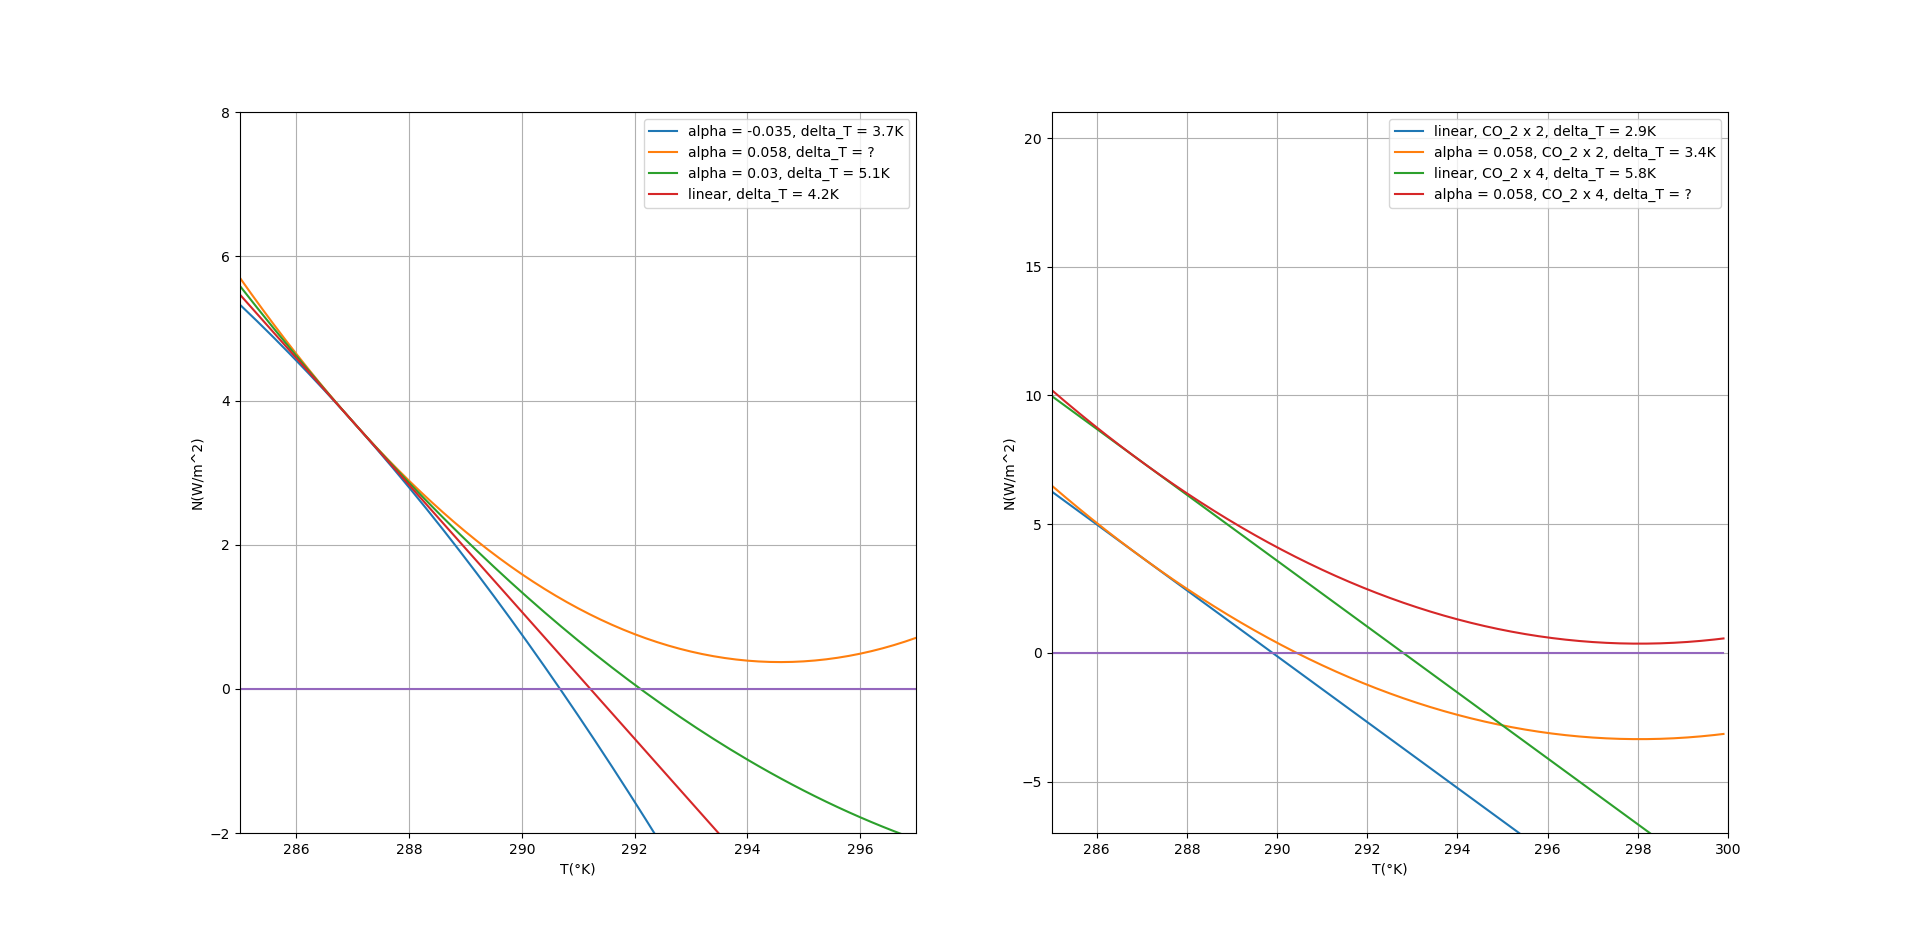
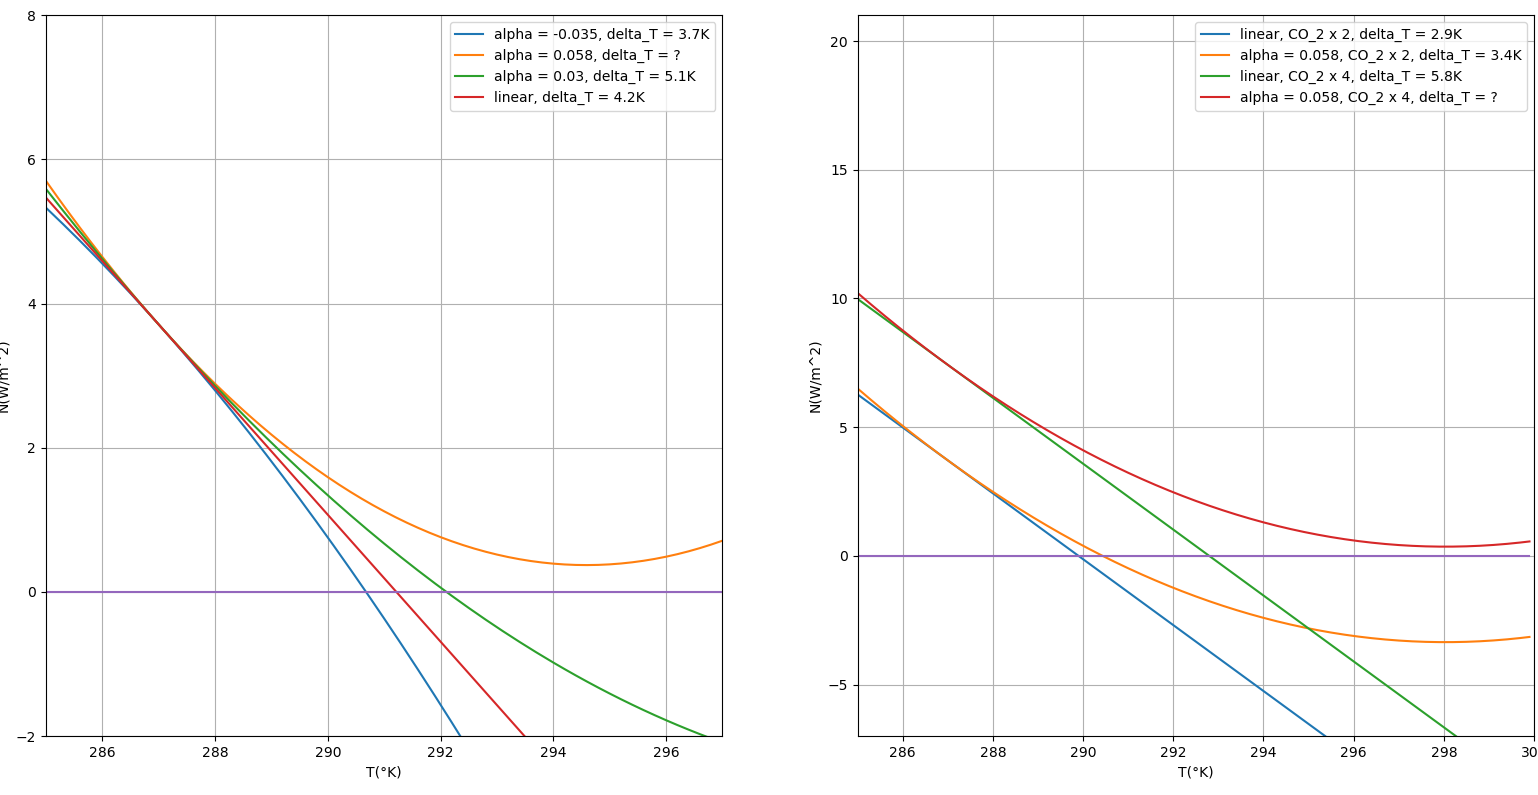
affichage des plots en colonnes

diff --git a/1.2/part_2.py b/1.2/part_2.py
@@ -5,6 +5,20 @@ import matplotlib.pyplot as plt
     A numerical scheme is implemented to solve (eq 3.). We will perform several times series, all of theme during 200y,
     for all the value of alpha lambda and F used in the previous exercises.
 """
+
+############ - Function definition - ##############
+def alpha_critique(lamb, CO_2_multiplication):
+	"""
+		Give the value of alpha where sqrt(lamb**2 - 4 * alpha * F) doesn't exist -> runaway warming.
+	"""
+	F = np.log2(CO_2_multiplication)*3.71
+	return (lamb**2)/(4*F)
+
+def delta_T_next_time_step(CO2_multiplication, lamb, alpha, delta_T):
+    # return the next time step with Euler Forward method.
+    F = np.log2(CO2_multiplication)*3.71
+    return (delta_t/C) * (F + lamb * delta_T + alpha * delta_T**2) + delta_T
+
 ############ - Simulation Parameters - ############
 C = 8.36 * 10 ** 8 
 
@@ -30,31 +44,35 @@ CO2_1d_3 = 4
 alpha_1d_4 = 0.058
 CO2_1d_4 = 4
 
-#Graph 2a and 2b. Originally alpha was varying from -0.1 to 0.1 but now we have to choose prescribed value fro alpha (? not sure)
 lamb_2ab_1 = -0.79
 lamb_2ab_2 = -1.17
 lamb_2ab_3 = -1.78
 
-alpha_2ab = 0.03
-
 CO2_2a = 2
 CO2_2b = 4
+
+epsilon = 0
+
+alpha_2a_1 = alpha_critique(lamb_2ab_1,CO2_2a) - epsilon
+alpha_2a_2 = alpha_critique(lamb_2ab_2,CO2_2a) - epsilon
+alpha_2a_3 = alpha_critique(lamb_2ab_3,CO2_2a) - epsilon
+
+alpha_2b_1 = alpha_critique(lamb_2ab_1,CO2_2b) - epsilon
+alpha_2b_2 = alpha_critique(lamb_2ab_2,CO2_2b) - epsilon
+alpha_2b_3 = alpha_critique(lamb_2ab_3,CO2_2b) - epsilon
+
+
 
 ########## - Temporal discretization  - ###########
 
 delta_t_in_year = 0.05
-integration_time_in_year = 200 
+integration_time_in_year = 800 
 delta_t = delta_t_in_year * 365 * 24 * 60 * 60 # Using SI units
 integration_time = integration_time_in_year * 365 * 24 * 60 * 60 # Using SI units
 
 temporal_discretization = np.arange(0, integration_time, delta_t)
 
-############ - Function definition - ##############
 
-def delta_T_next_time_step(CO2_multiplication, lamb, alpha, delta_T):
-    # return the next time step with Euler Forward method.
-    F = np.log2(CO2_multiplication)*3.71
-    return (delta_t/C) * (F + lamb * delta_T + alpha * delta_T**2) + delta_T
 
 ################# - Simulation - ###################
 T_1a_1 = []
@@ -104,13 +122,13 @@ for t in temporal_discretization:
         T_1d_3.append(delta_T_next_time_step(CO2_1d_3, lamb_1d, alpha_1d_3, T_1d_3[-1]))
         T_1d_4.append(delta_T_next_time_step(CO2_1d_4, lamb_1d, alpha_1d_4, T_1d_4[-1]))
 
-        T_2a_1.append(delta_T_next_time_step(CO2_2a, lamb_2ab_1, alpha_2ab, T_2a_1[-1]))
-        T_2a_2.append(delta_T_next_time_step(CO2_2a, lamb_2ab_2, alpha_2ab, T_2a_2[-1]))
-        T_2a_3.append(delta_T_next_time_step(CO2_2a, lamb_2ab_3, alpha_2ab, T_2a_3[-1]))
+        T_2a_1.append(delta_T_next_time_step(CO2_2a, lamb_2ab_1, alpha_2a_1, T_2a_1[-1]))
+        T_2a_2.append(delta_T_next_time_step(CO2_2a, lamb_2ab_2, alpha_2a_2, T_2a_2[-1]))
+        T_2a_3.append(delta_T_next_time_step(CO2_2a, lamb_2ab_3, alpha_2a_3, T_2a_3[-1]))
 
-        T_2b_1.append(delta_T_next_time_step(CO2_2b, lamb_2ab_1, alpha_2ab, T_2b_1[-1]))
-        T_2b_2.append(delta_T_next_time_step(CO2_2b, lamb_2ab_2, alpha_2ab, T_2b_2[-1]))
-        T_2b_3.append(delta_T_next_time_step(CO2_2b, lamb_2ab_3, alpha_2ab, T_2b_3[-1]))
+        T_2b_1.append(delta_T_next_time_step(CO2_2b, lamb_2ab_1, alpha_2b_1, T_2b_1[-1]))
+        T_2b_2.append(delta_T_next_time_step(CO2_2b, lamb_2ab_2, alpha_2b_2, T_2b_2[-1]))
+        T_2b_3.append(delta_T_next_time_step(CO2_2b, lamb_2ab_3, alpha_2b_3, T_2b_3[-1]))
 
 ################## - Ploting the results - ##################
 
@@ -118,7 +136,8 @@ for t in temporal_discretization:
 """
     We creat 4 subplots, first for value param from fig 1a, second from fig 1d, third 2a and last 2b.
 """
-plt.subplot(2,2,1)
+
+plt.subplot(2,1,1)
 plt.plot(temporal_discretization/31536000,T_1a_1, label = 'lambda = {}, alpha = {}, CO2_mult = {}, delta_T steady state= {}°K'.format(lamb_1a,alpha_1a_1,CO2_1a,round(T_1a_1[-1],1)))
 plt.plot(temporal_discretization/31536000,T_1a_2, label = 'lambda = {}, alpha = {}, CO2_mult = {}, delta_T steady state= {}°K'.format(lamb_1a,alpha_1a_2,CO2_1a,round(T_1a_2[-1],1)))
 plt.plot(temporal_discretization/31536000,T_1a_3, label = 'lambda = {}, alpha = {}, CO2_mult = {}, steady state unreached'.format(lamb_1a,alpha_1a_3,CO2_1a))
@@ -130,7 +149,7 @@ plt.legend()
 plt.grid()
 plt.title('Thermal inertia, parameter values from fig 1 left.')
    
-plt.subplot(2,2,2)
+plt.subplot(2,1,2)
 plt.plot(temporal_discretization/31536000,T_1d_1, label = 'lambda = {}, linear, CO2_mult = {}, delta_T steady state= {}°K'.format(lamb_1d, CO2_1d_1, round(T_1d_1[-1],1)))
 plt.plot(temporal_discretization/31536000,T_1d_2, label = 'lambda = {}, alpha = {}, CO2_mult = {}, delta_T steady state= {}°K'.format(lamb_1d, alpha_1d_2, CO2_1d_2, round(T_1d_2[-1],1)))
 plt.plot(temporal_discretization/31536000,T_1d_3, label = 'lambda = {}, linear, CO2_mult = {}, delta_T steady state= {}°K'.format(lamb_1d,CO2_1d_3,round(T_1d_3[-1],1)))
@@ -141,24 +160,25 @@ plt.ylabel('delta_T (°K)')
 plt.grid()
 plt.title('Thermal inertia, parameter values from fig 1 right.')
 
-plt.subplot(2,2,3)
-plt.plot(temporal_discretization/31536000,T_2a_1, label = 'lambda = {}, alpha = {}, CO2_mult = {}'.format(lamb_2ab_1,alpha_2ab,CO2_2a))
-plt.plot(temporal_discretization/31536000,T_2a_2, label = 'lambda = {}, alpha = {}, CO2_mult = {}'.format(lamb_2ab_2,alpha_2ab,CO2_2a))
-plt.plot(temporal_discretization/31536000,T_2a_3, label = 'lambda = {}, alpha = {}, CO2_mult = {}'.format(lamb_2ab_3,alpha_2ab,CO2_2a))
+plt.show()
+plt.subplot(2,1,1)
+plt.plot(temporal_discretization/31536000,T_2a_1, label = 'lambda = {}, alpha_c = {}'.format(lamb_2ab_1, round(alpha_2a_1,3)))
+plt.plot(temporal_discretization/31536000,T_2a_2, label = 'lambda = {}, alpha_c = {}'.format(lamb_2ab_2, round(alpha_2a_2,3)))
+plt.plot(temporal_discretization/31536000,T_2a_3, label = 'lambda = {}, alpha_c = {}'.format(lamb_2ab_3, round(alpha_2a_3,3)))
 plt.legend()
 plt.xlabel('time in year')
 plt.ylabel('delta_T (°K)')
 plt.grid()
-plt.title('thermal inertia, parameter value from fig 2a.')
+plt.title('Trensient behaviour under one doubling of CO2 with alpha = alpha_c.')
 
-plt.subplot(2,2,4)
-plt.plot(temporal_discretization/31536000,T_2b_1, label = 'lambda = {}, alpha = {}, CO2_mult = {}'.format(lamb_2ab_1,alpha_2ab,CO2_2b))
-plt.plot(temporal_discretization/31536000,T_2b_2, label = 'lambda = {}, alpha = {}, CO2_mult = {}'.format(lamb_2ab_2,alpha_2ab,CO2_2b))
-plt.plot(temporal_discretization/31536000,T_2b_3, label = 'lambda = {}, alpha = {}, CO2_mult = {}'.format(lamb_2ab_3,alpha_2ab,CO2_2b))
+plt.subplot(2,1,2)
+plt.plot(temporal_discretization/31536000,T_2b_1, label = 'lambda = {}, alpha_c = {}'.format(lamb_2ab_1, round(alpha_2b_1,3)))
+plt.plot(temporal_discretization/31536000,T_2b_2, label = 'lambda = {}, alpha_c = {}'.format(lamb_2ab_2, round(alpha_2b_2,3)))
+plt.plot(temporal_discretization/31536000,T_2b_3, label = 'lambda = {}, alpha_c = {}'.format(lamb_2ab_3, round(alpha_2b_3,3)))
 plt.legend()
 plt.xlabel('time in year')
 plt.ylabel('delta_T (°K)')
 plt.grid()
-plt.title('thermal inertia, parameter value from fig 2b.')
+plt.title('Trensient behaviour under two doubling of CO2 with alpha = alpha_c.')
 
 plt.show()

diff --git a/1.2/convergence_time.py b/1.2/convergence_time.py
@@ -1,0 +1,92 @@
+import numpy as np
+import matplotlib.pyplot as plt
+
+
+############ - Function definition - ##############
+def alpha_critique(lamb, CO_2_multiplication):
+	"""
+		Give the value of alpha where sqrt(lamb**2 - 4 * alpha * F) doesn't exist -> runaway warming.
+	"""
+	F = np.log2(CO_2_multiplication)*3.71
+	return (lamb**2)/(4*F)
+
+def delta_T_next_time_step(CO2_multiplication, lamb, alpha, delta_T):
+    # return the next time step with Euler Forward method.
+    F = np.log2(CO2_multiplication)*3.71
+    return (delta_t/C) * (F + lamb * delta_T + alpha * delta_T**2) + delta_T
+
+def temperature_increase(CO_2_multiplication, alpha, lamb):
+	"""
+		Give the increase of temperature for a given perturbation in CO_2 concetration and given values of the feedback
+	"""
+	F = np.log2(CO_2_multiplication)*3.71
+	if alpha == 0:
+		return -F/lamb
+	else:
+		return (-lamb - np.sqrt(lamb**2 - 4 * alpha * F))/(2*alpha)
+
+############ - Simulation Parameters - ############
+C = 8.36 * 10 ** 8 
+
+
+
+lamb_2ab_1 = -0.79
+lamb_2ab_2 = -1.17
+lamb_2ab_3 = -1.78
+
+CO2_2a = 2
+CO2_2b = 4
+
+alpha_min = -0.1
+alpha_max = 0.1
+detla_alpha = 0.0005
+alpha_distribution = np.arange(alpha_min, alpha_max, detla_alpha)
+
+epsilon = 0.01
+
+########## - Temporal discretization  - ###########
+
+delta_t_in_year = 0.05
+integration_time_in_year = 200 
+delta_t = delta_t_in_year * 365 * 24 * 60 * 60 # Using SI units
+integration_time = integration_time_in_year * 365 * 24 * 60 * 60 # Using SI units
+
+temporal_discretization = np.arange(0, integration_time, delta_t)
+
+################# - Simulation - ################
+
+
+
+record = []
+for alpha in alpha_distribution:
+    print(round(alpha,2),'/',alpha_max)
+    T_2a_1 = []
+    T_2a_2 = []
+    T_2a_3 = []
+
+    T_2b_1 = []
+    T_2b_2 = []
+    T_2b_3 = []
+    for t in temporal_discretization:
+        if t == 0:
+            T_2a_1.append(0)
+            T_2a_2.append(0)
+            T_2a_3.append(0)
+
+            T_2b_1.append(0)
+            T_2b_2.append(0)
+            T_2b_3.append(0)
+        else:
+            T_2a_1.append(delta_T_next_time_step(CO2_2a, lamb_2ab_1, alpha, T_2a_1[-1]))
+            T_2a_2.append(delta_T_next_time_step(CO2_2a, lamb_2ab_2, alpha, T_2a_2[-1]))
+            T_2a_3.append(delta_T_next_time_step(CO2_2a, lamb_2ab_3, alpha, T_2a_3[-1]))
+
+            T_2b_1.append(delta_T_next_time_step(CO2_2b, lamb_2ab_1, alpha, T_2b_1[-1]))
+            T_2b_2.append(delta_T_next_time_step(CO2_2b, lamb_2ab_2, alpha, T_2b_2[-1]))
+            T_2b_3.append(delta_T_next_time_step(CO2_2b, lamb_2ab_3, alpha, T_2b_3[-1]))
+        if T_2a_1[-1] >= temperature_increase(CO2_2a,alpha,lamb_2ab_1) - (epsilon/2) and T_2a_1[-1] <= temperature_increase(CO2_2a,alpha,lamb_2ab_1) + (epsilon/2):
+            record.append(t)
+            break
+plt.plot(alpha_distribution,record)
+plt.show()
+        

diff --git a/1.1/2ab.py b/1.1/2ab.py
@@ -68,7 +68,7 @@ for alpha in alpha_distribution:
 
 ##################### - Ploting the results - ####################
 
-plt.subplot(1,2,1)
+plt.subplot(2,1,1)
 plt.plot(alpha_distribution, T_11, label = 'lambda = {}, critical alpha = {}'.format(lambda_1, alpha_critique(lambda_1,CO2_1)))
 plt.plot(alpha_distribution, T_12, label = 'lambda = {}, critical alpha = {}'.format(lambda_2, alpha_critique(lambda_2,CO2_1)))
 plt.plot(alpha_distribution, T_13, label = 'lambda = {}, critical alpha = {}'.format(lambda_3, alpha_critique(lambda_3,CO2_1)))
@@ -79,7 +79,7 @@ plt.xlim(-0.1,0.1)
 plt.grid()
 plt.legend()
 
-plt.subplot(1,2,2)
+plt.subplot(2,1,2)
 plt.plot(alpha_distribution, T_21, label = 'lambda = {}, critical alpha = {}'.format(lambda_1, alpha_critique(lambda_1,CO2_2)))
 plt.plot(alpha_distribution, T_22, label = 'lambda = {}, critical alpha = {}'.format(lambda_2, alpha_critique(lambda_2,CO2_2)))
 plt.plot(alpha_distribution, T_23, label = 'lambda = {}, critical alpha = {}'.format(lambda_3, alpha_critique(lambda_3,CO2_2)))

diff --git a/1.1/1ad.py b/1.1/1ad.py
@@ -77,7 +77,7 @@ for T in T_distribution:
 
 zeros_line = np.zeros((len(T_distribution),1))
 
-plt.subplot(1,2,1)
+plt.subplot(2,1,1)
 plt.plot(T_distribution, N_a1, label = "alpha = {}, delta_T = {}K".format(alpha_a1, temperature_increase(lamb_a, alpha_a1, CO2_a)))
 plt.plot(T_distribution, N_a2, label = "alpha = {}, delta_T = ?".format(alpha_a2))
 plt.plot(T_distribution, N_a3, label = "alpha = {}, delta_T = {}K".format(alpha_a3, temperature_increase(lamb_a, alpha_a3, CO2_a)))
@@ -90,7 +90,7 @@ plt.ylim(-2,8)
 plt.xlabel('T(°K)')
 plt.ylabel('N(W/m^2)')
 
-plt.subplot(1,2,2)
+plt.subplot(2,1,2)
 plt.plot(T_distribution, N_d1, label = "linear, CO_2 x {}, delta_T = {}K".format(CO2_d1, temperature_increase(lamb_d, alpha_d1, CO2_d1)))
 plt.plot(T_distribution, N_d2, label = "alpha = {}, CO_2 x {}, delta_T = {}K".format(alpha_d2, CO2_d2, temperature_increase(lamb_d, alpha_d2, CO2_d2)))
 plt.plot(T_distribution, N_d3, label = "linear, CO_2 x {}, delta_T = {}K".format(CO2_d3, temperature_increase(lamb_d, alpha_d3, CO2_d3)))
